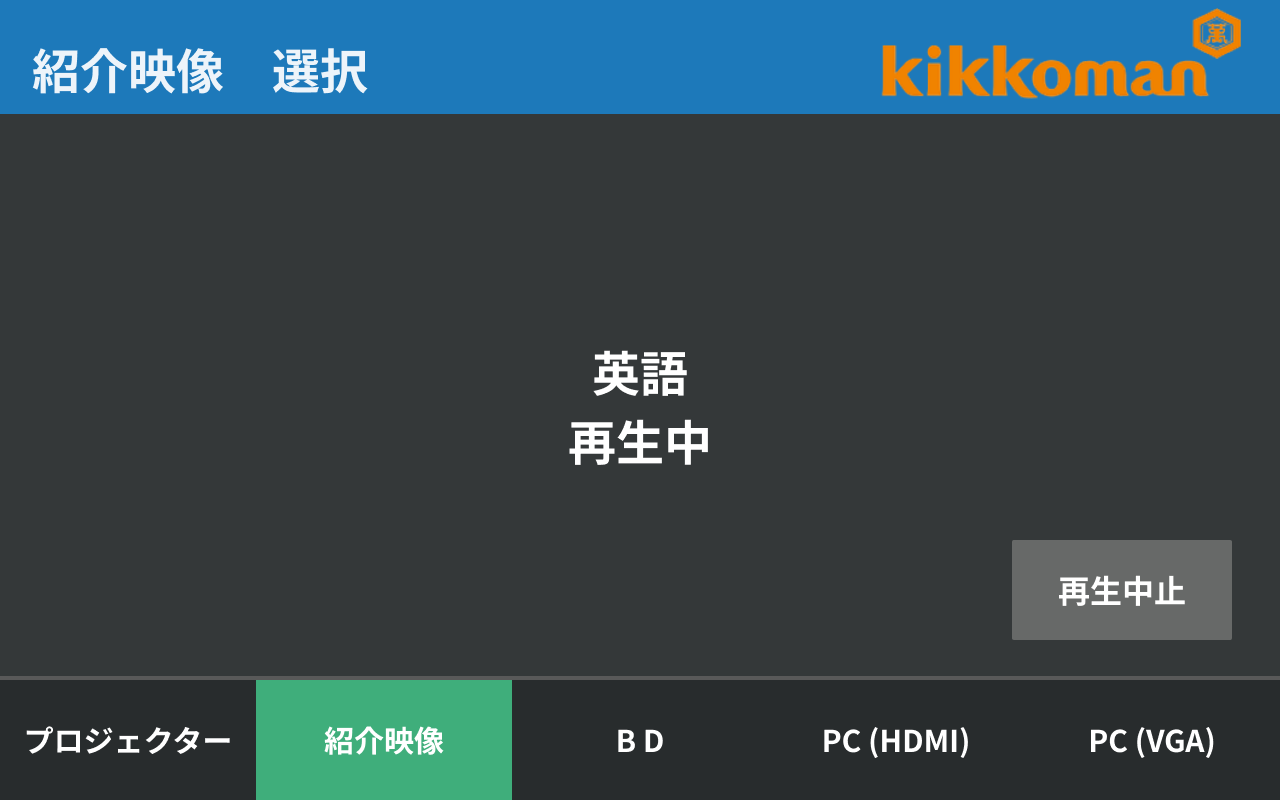
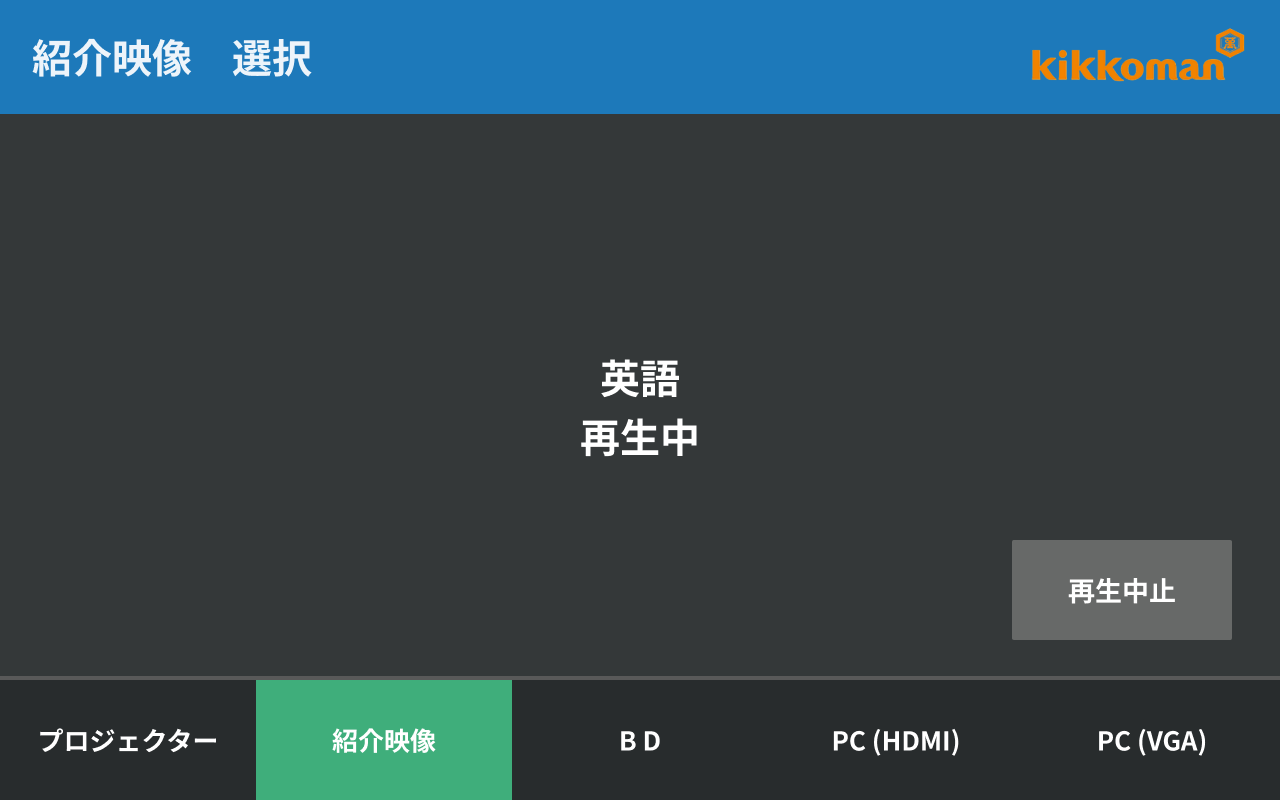
Updated design

diff --git a/styles.css b/styles.css
@@ -11,6 +11,9 @@
   --button-gray: #676968;
   --active-green: #3fae7b;
   --nav-dark: #282c2d;
+  --intro-orange: #ffb300;
+  --intro-pink: #df72a1;
+  --intro-blue: #38a7db;
   --power-red: #d32f2f;
 }
 
@@ -93,13 +96,13 @@ button {
 
 .power-button {
   font-family: Arial, sans-serif;
-  font-size: 34px;
+  font-size: 28px;
   font-weight: 700;
 }
 
 .nav-button {
   background: var(--nav-dark);
-  font-size: 31px;
+  font-size: 26px;
   font-weight: 700;
   white-space: nowrap;
 }
@@ -109,15 +112,25 @@ button {
 }
 
 .intro-button {
+  --intro-button-color: var(--intro-orange);
+  background: var(--intro-button-color);
   flex-direction: column;
-  gap: 1px;
+  gap: 4px;
+}
+
+.intro-button.category-button {
+  --intro-button-color: var(--intro-pink);
+}
+
+.intro-button.spare-button {
+  --intro-button-color: var(--intro-blue);
 }
 
 .intro-button .ja {
   display: block;
   max-width: 96%;
   overflow: hidden;
-  font-size: 21px;
+  font-size: 20px;
   font-weight: 700;
   line-height: 1.25;
   text-overflow: ellipsis;
@@ -126,7 +139,7 @@ button {
 
 .intro-button .en {
   display: block;
-  color: #c5c5c5;
+  color: #fff;
   font-family: Arial, sans-serif;
   font-size: 14px;
   font-weight: 400;
@@ -135,17 +148,17 @@ button {
 }
 
 .playback-stop {
-  font-size: 32px;
+  font-size: 28px;
   font-weight: 700;
 }
 
 .bd-playback-button {
   flex-direction: column;
-  gap: 13px;
+  gap: 22px;
 }
 
 .bd-playback-button .label {
-  font-size: 32px;
+  font-size: 27px;
   font-weight: 700;
   line-height: 1;
 }
@@ -181,8 +194,7 @@ button {
 }
 
 .bd-text-button {
-  font-family: Arial, sans-serif;
-  font-size: 32px;
+  font-size: 26px;
   font-weight: 700;
 }
 
@@ -211,6 +223,10 @@ button {
 
 .ui-button:not(.nav-button).pressed:not(:disabled) {
   animation: button-color-crossfade 620ms linear forwards;
+}
+
+.ui-button.intro-button.pressed:not(:disabled) {
+  animation-name: intro-button-color-crossfade;
 }
 
 .page-transition-overlay {
@@ -274,6 +290,32 @@ button {
 
   36% {
     background-color: #b6b7b6;
+  }
+
+  50% {
+    background-color: #eeeeee;
+  }
+
+  62% {
+    background-color: #f0d9d7;
+  }
+
+  76% {
+    background-color: #eb9a94;
+  }
+
+  90% {
+    background-color: #df5f57;
+  }
+
+  100% {
+    background-color: var(--power-red);
+  }
+}
+
+@keyframes intro-button-color-crossfade {
+  0% {
+    background-color: var(--intro-button-color);
   }
 
   50% {

diff --git a/index.html b/index.html
@@ -5,9 +5,9 @@
     <meta name="viewport" content="width=device-width, initial-scale=1, maximum-scale=1, user-scalable=no">
     <meta name="theme-color" content="#303435">
     <title>シアター操作パネル — BrightSign Test</title>
-    <link rel="stylesheet" href="styles.css?v=20260818-6">
-    <script src="udp-config.js?v=20260818-6"></script>
-    <script src="app.js?v=20260818-6" defer></script>
+    <link rel="stylesheet" href="styles.css?v=20260824-6">
+    <script src="udp-config.js?v=20260824-6"></script>
+    <script src="app.js?v=20260824-6" defer></script>
   </head>
   <body>
     <main id="stage" aria-label="シアター操作パネル・テストアプリ">

diff --git a/app.js b/app.js
@@ -333,7 +333,7 @@
         var row = Math.floor(itemIndex / 4);
         addButton({
           label: item.ja,
-          className: "intro-button",
+          className: "intro-button" + (item.spare ? " spare-button" : itemIndex >= 16 ? " category-button" : ""),
           x: columns[column],
           y: rows[row],
           width: widths[column],
